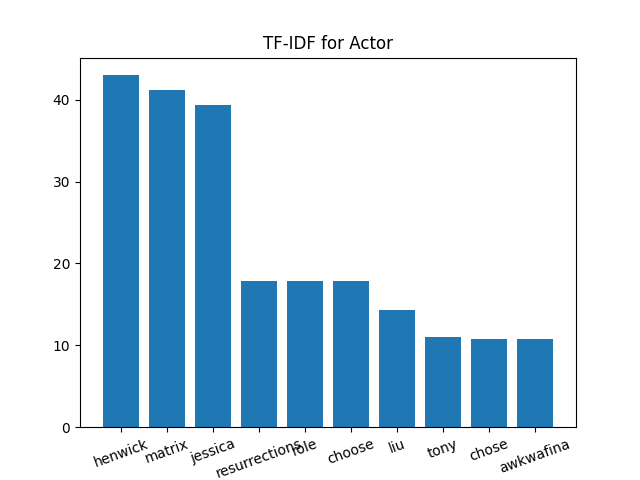
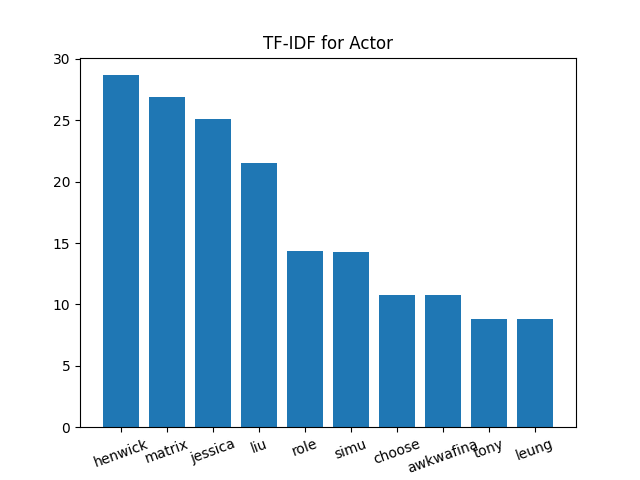
remove duplicates

diff --git a/src/tf_idf_graph.py b/src/tf_idf_graph.py
@@ -18,6 +18,7 @@ def main():
     stop = get_stop_word()
     tweets = clean_column(tweets)
     tweets = remove_stop_alpha(stop, tweets)
+    tweets.drop_duplicates(subset='Tweet', keep='first', inplace=True)
     freq = build_word_freq_pony(tweets)
     result = tf_idf(freq, TOP)
     plot_tf_idf(result)
